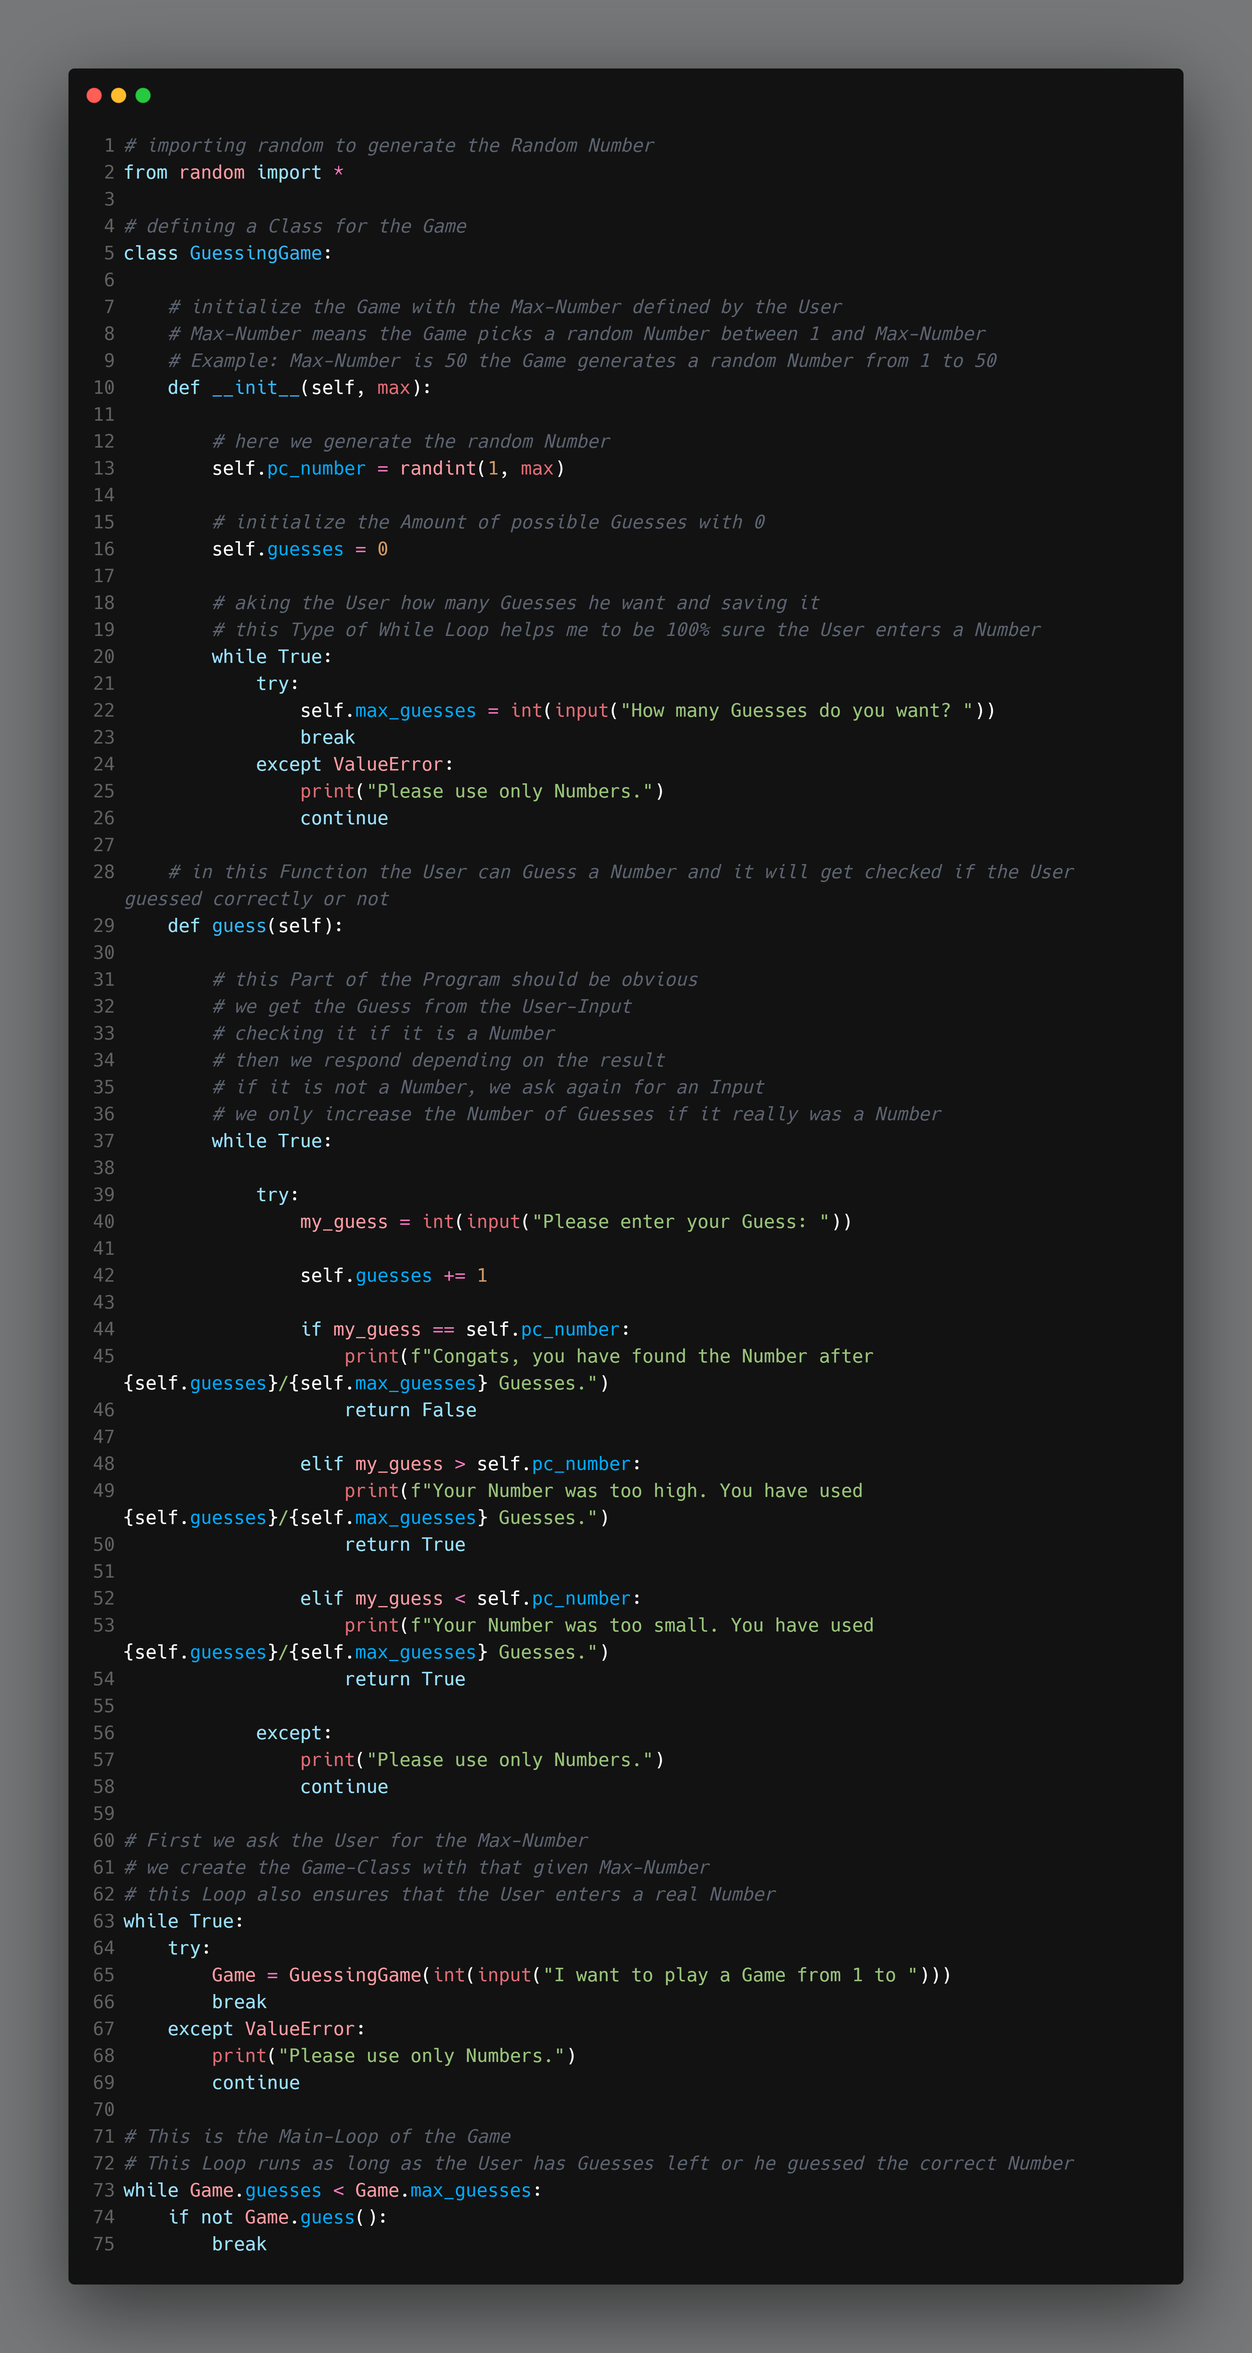
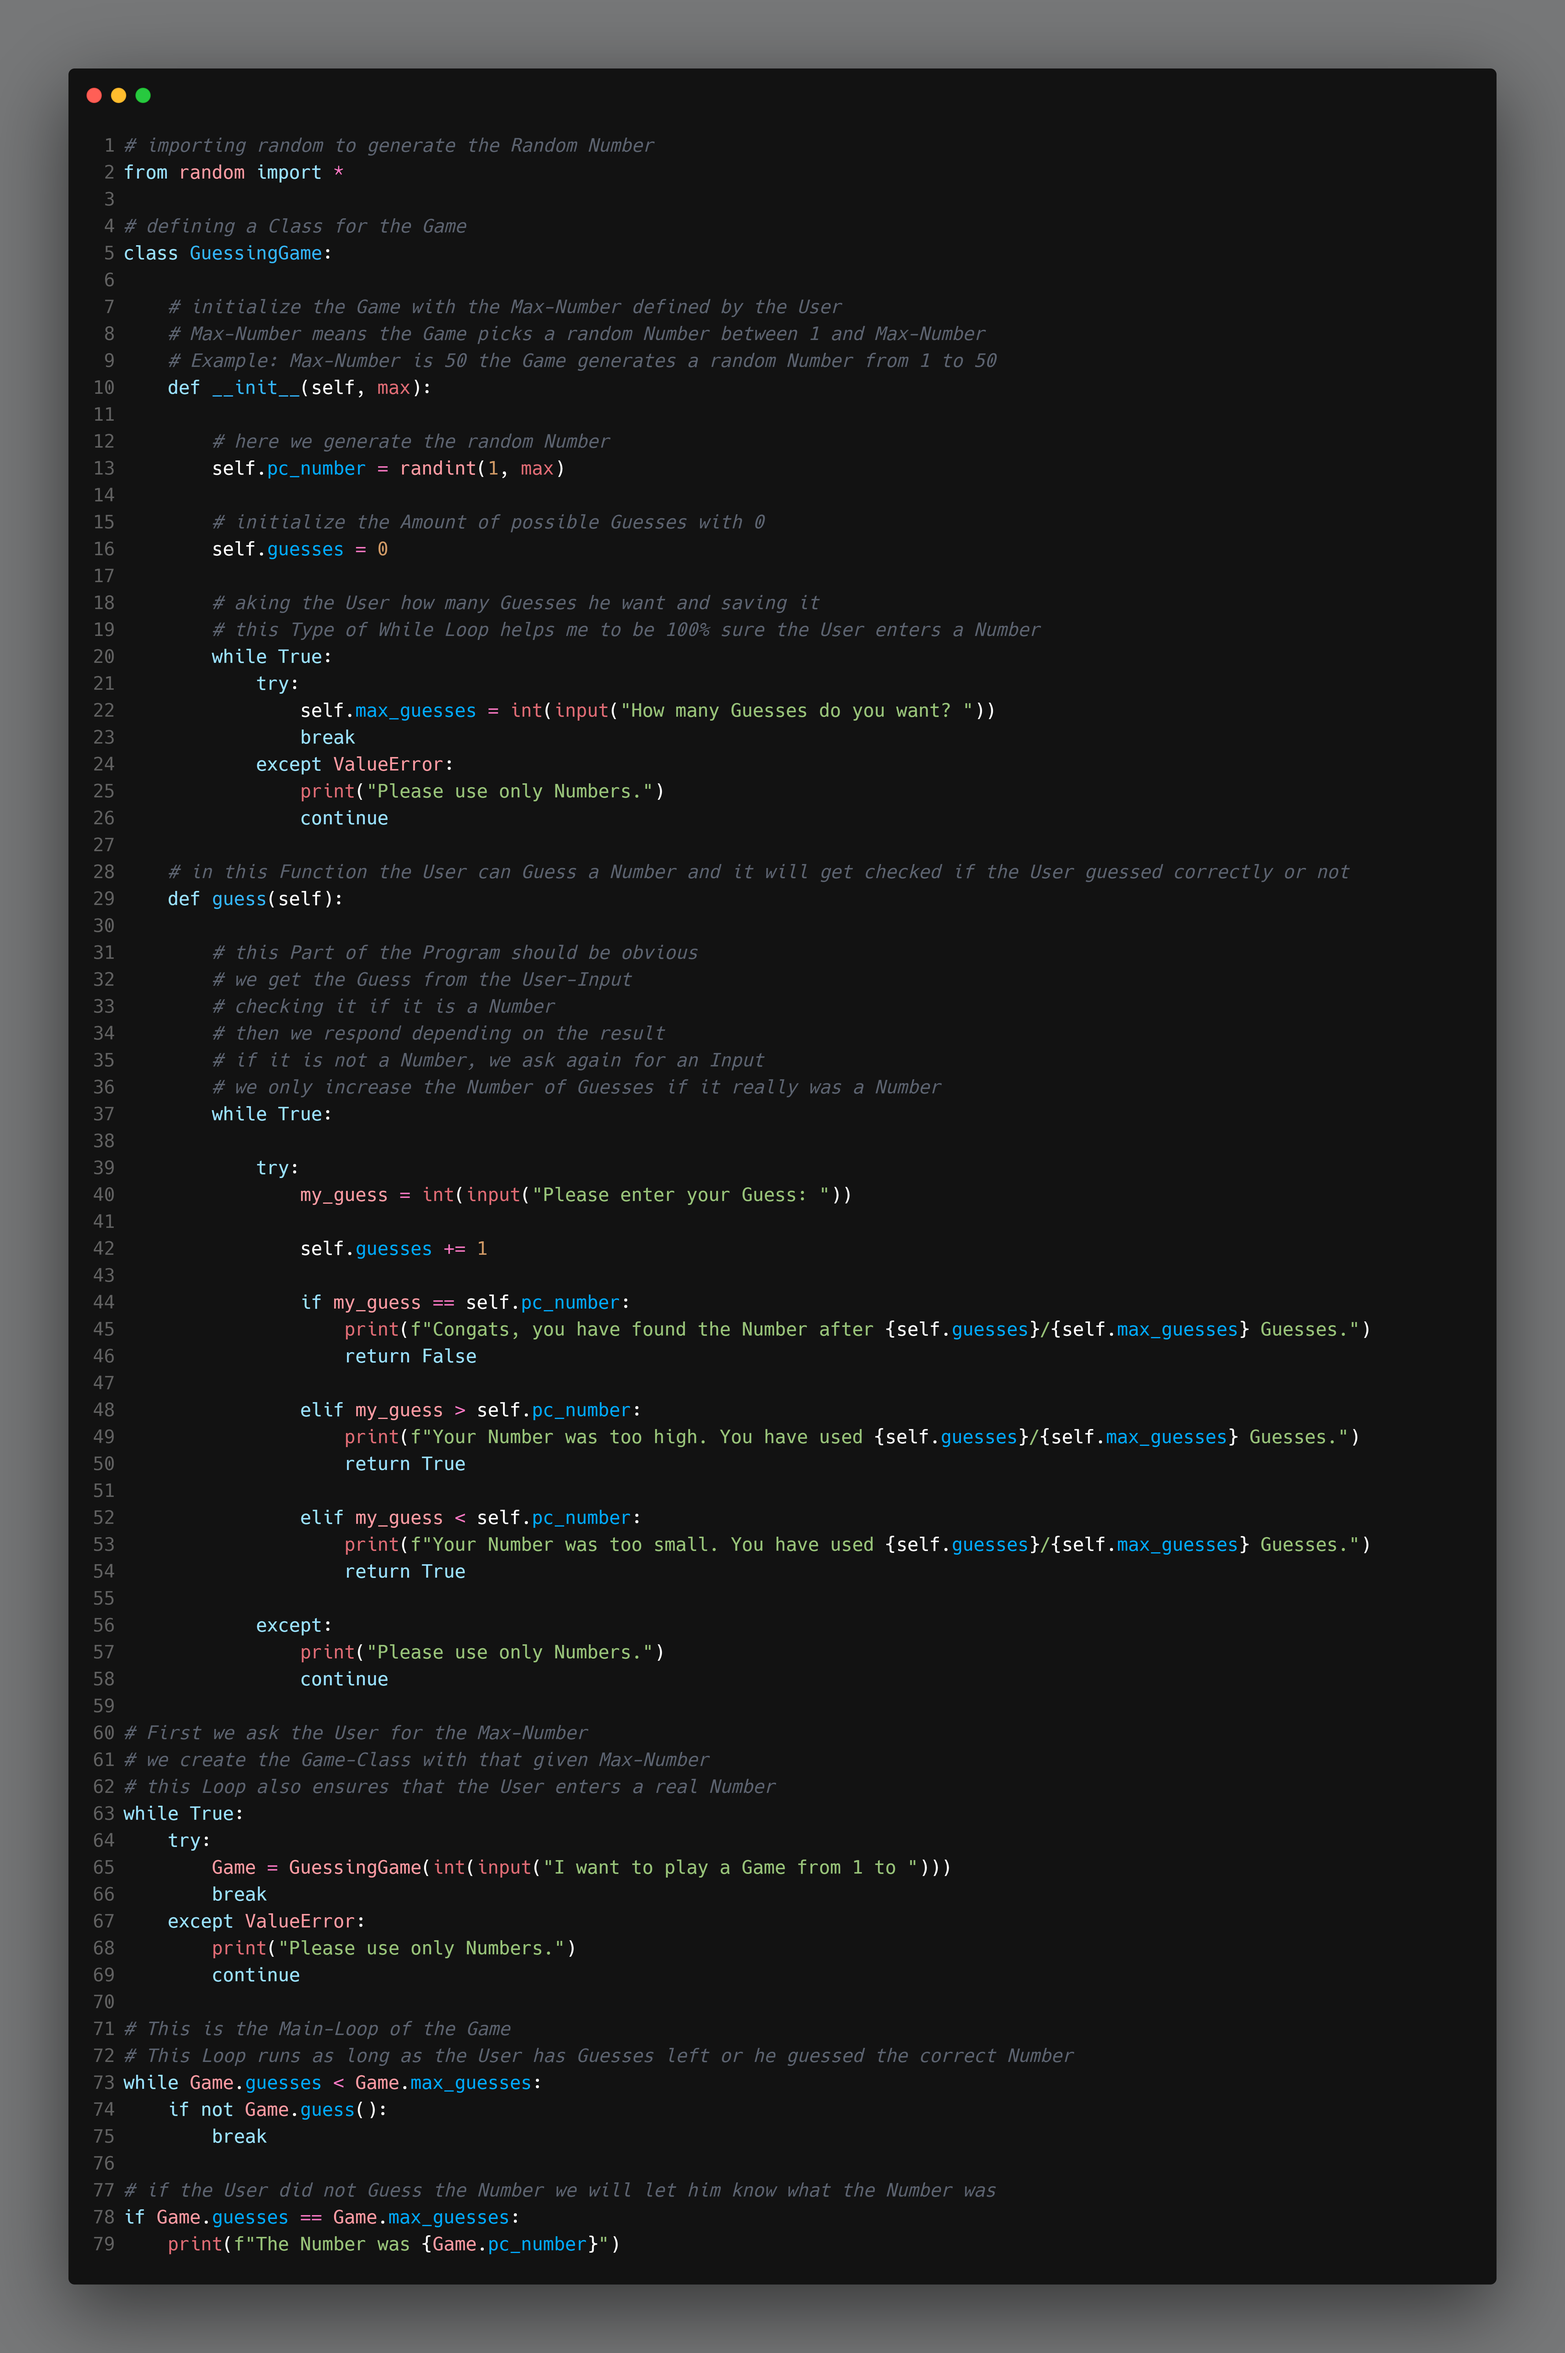
Added Images and Fixes to various Projects

diff --git a/guess_number/main.py b/guess_number/main.py
@@ -73,3 +73,7 @@ while True:
 while Game.guesses < Game.max_guesses:
     if not Game.guess():
         break
+
+# if the User did not Guess the Number we will let him know what the Number was
+if Game.guesses == Game.max_guesses:
+    print(f"The Number was {Game.pc_number}")
